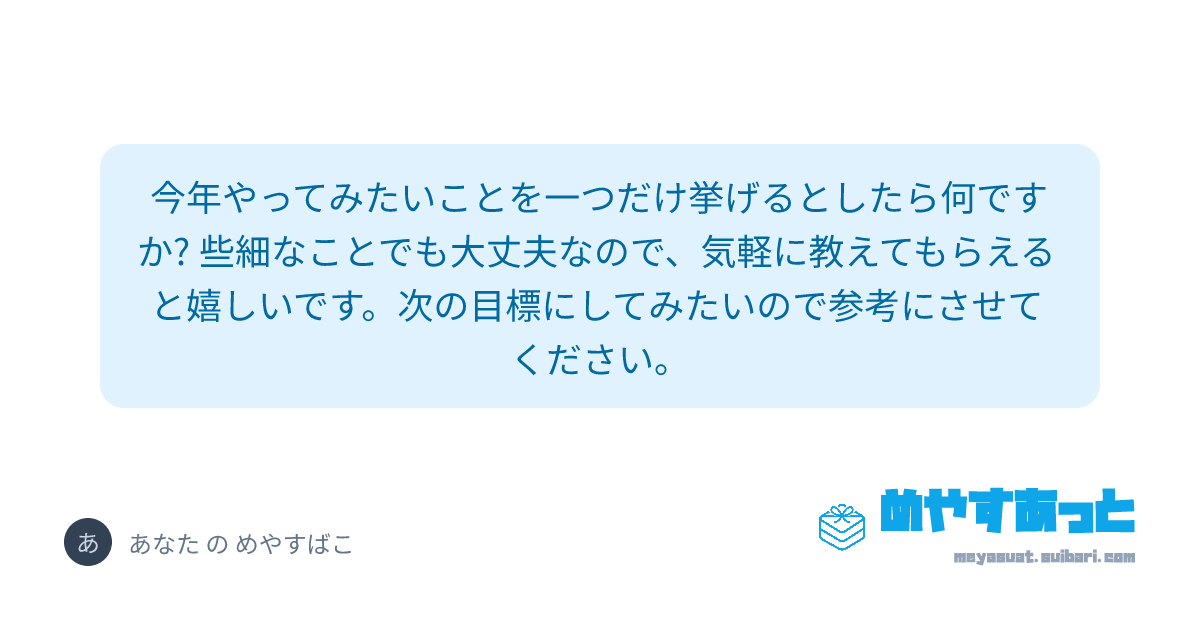
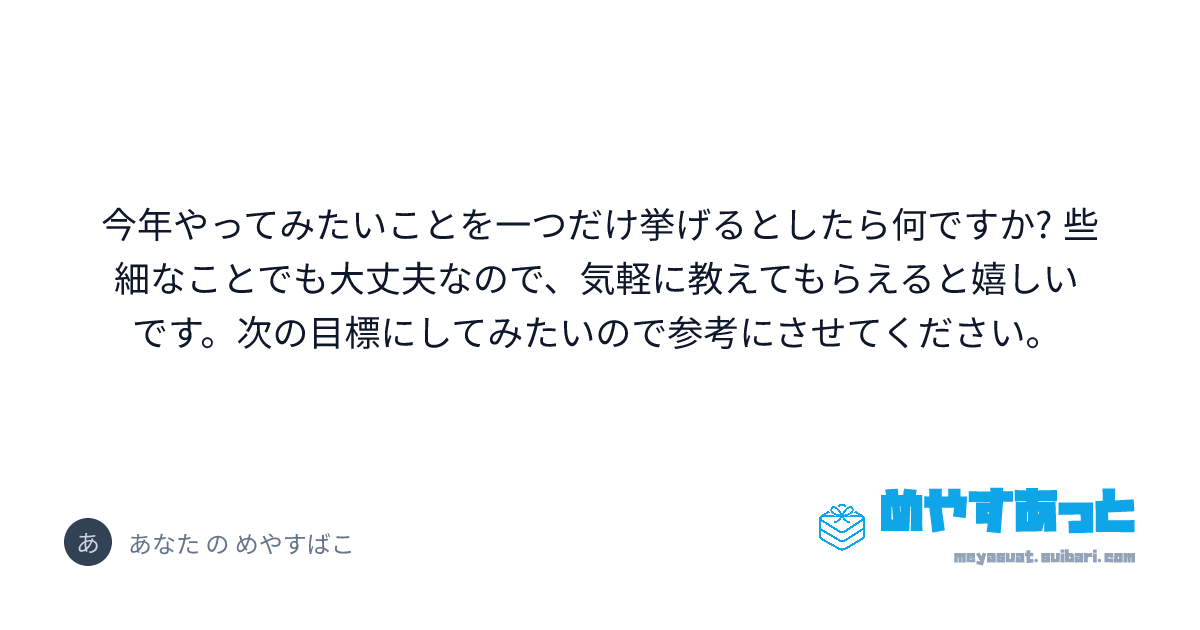
質問文長文時の描画ミスを修正

diff --git a/src/lib/server/og.ts b/src/lib/server/og.ts
@@ -108,23 +108,19 @@ export function buildQuestionNode(body: string, hasHeader = false) {
 	const fontSize = hasHeader
 		? (len <= 30 ? 56 : len <= 60 ? 40 : len <= 100 ? 32 : 24)
 		: (len <= 30 ? 64 : len <= 60 ? 48 : len <= 100 ? 36 : 28);
-	const emphasize = len > 60;
 	return {
 		type: 'div',
 		props: {
 			style: {
 				display: 'flex',
 				fontSize: `${fontSize}px`,
-				fontWeight: emphasize ? 700 : 400,
-				color: emphasize ? '#0369a1' : '#0f172a',
+				fontWeight: 400,
+				color: '#0f172a',
 				lineHeight: 1.5,
 				maxWidth: '1000px',
 				textAlign: 'center',
 				wordBreak: 'break-all',
-				fontFamily: '"Noto Sans JP"',
-				...(emphasize
-					? { background: '#e0f2fe', padding: '24px 32px', borderRadius: '24px' }
-					: {})
+				fontFamily: '"Noto Sans JP"'
 			},
 			children: body
 		}